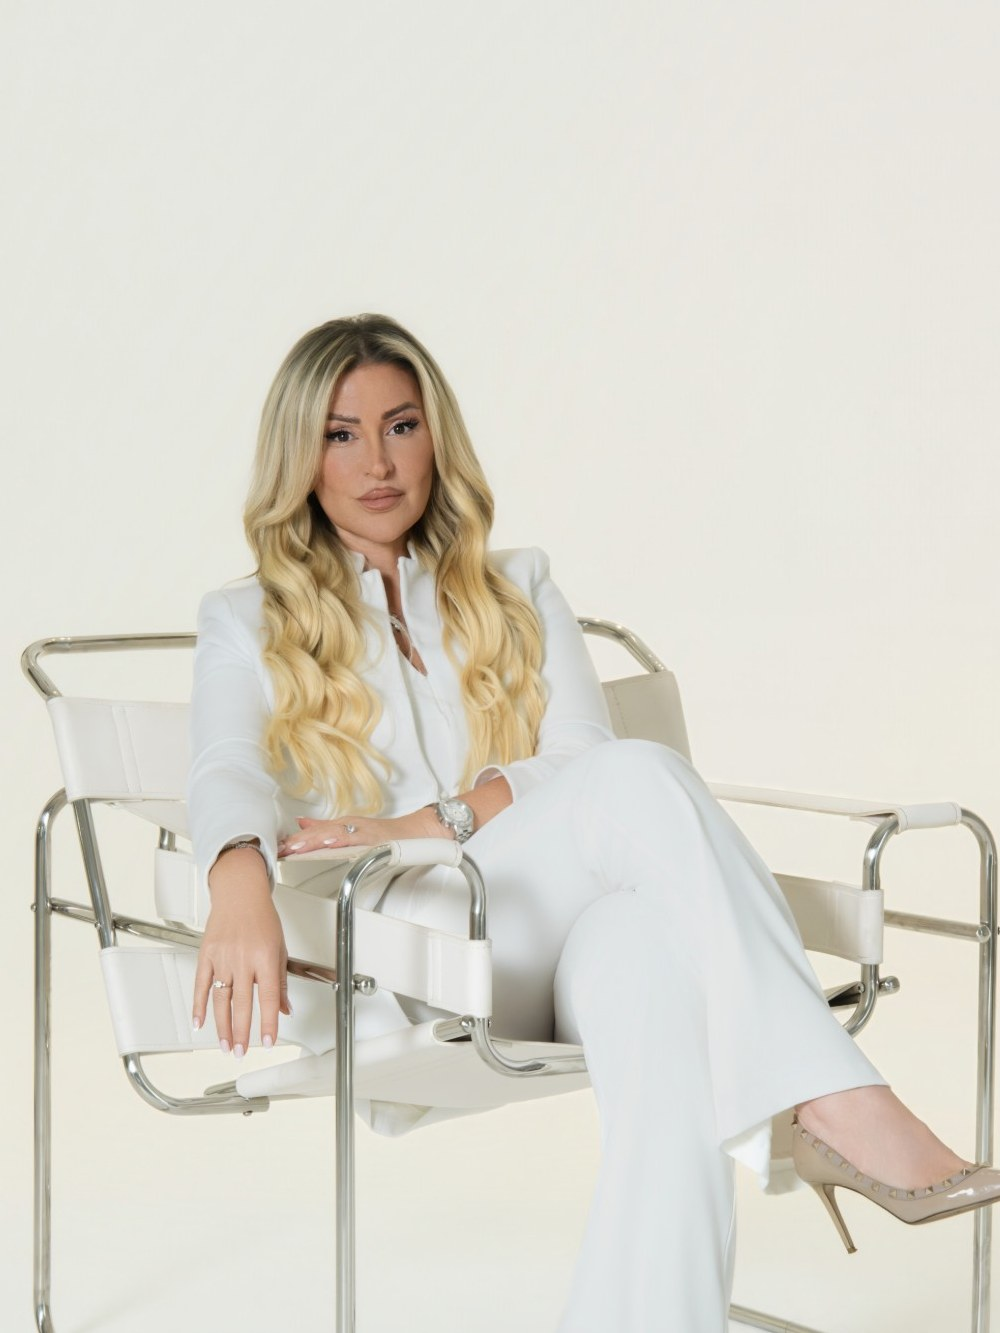
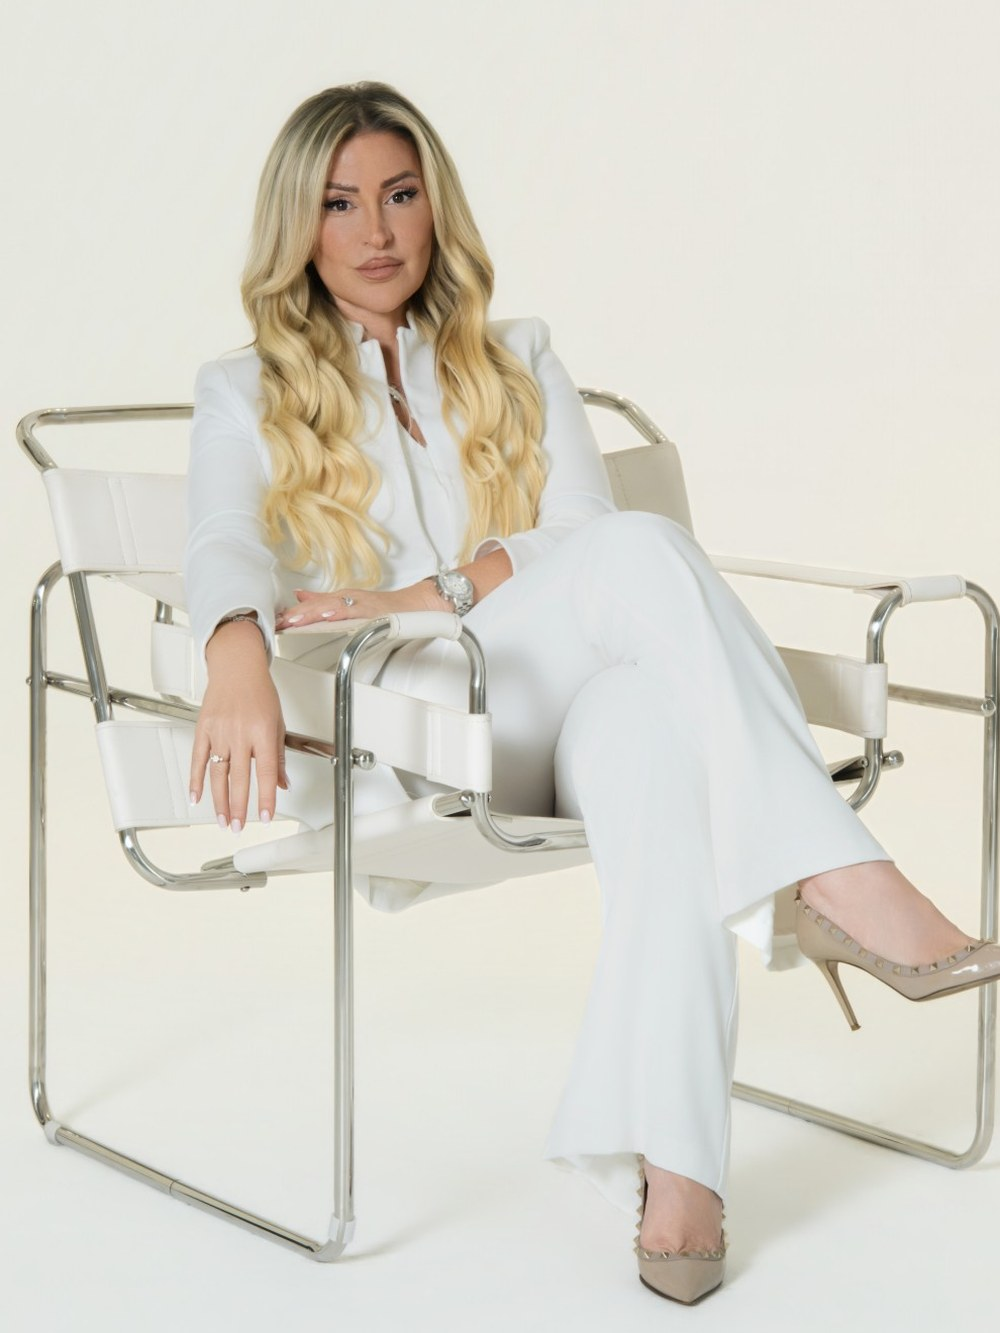
Add 4 press articles; raise Jinane's portrait to match Joelle's framing
Populate press-data.js with Zahrat Al Khaleej, two Gulf Magazine features and a
Sayidaty feature. Re-crop Jinane's portrait (fuller figure, head near the top) so
she sits at the same level as Joelle in the founder cards.

Claude-Session: https://claude.ai/code/session_01MA6AARB7kgMtULQSmpxjmu

diff --git a/ui_kits/website/press-data.js b/ui_kits/website/press-data.js
@@ -6,24 +6,42 @@
      type:    'article' | 'news',   // 'article' = external coverage to reshare;
                                      // 'news'    = the studio's own announcement
      title:   'Headline text',
-     outlet:  'Publication name',    // for articles (e.g. "Architectural Digest ME")
+     outlet:  'Publication name',    // for articles (e.g. "Gulf Magazine")
      date:    '2024-09',             // 'YYYY', 'YYYY-MM' or 'YYYY-MM-DD' — used to sort (newest first)
      url:     'https://…',           // link opened in a new tab (articles / source)
      image:   '../../assets/press/<file>.jpg',  // OPTIONAL thumbnail (put files in assets/press/)
      excerpt: 'One or two lines of summary.'     // OPTIONAL
    }
 
-   To add coverage: append an object below. Newest items show first automatically. */
+   To add coverage: append an object below. Newest items show first automatically
+   (add a `date` to control the order; items without a date keep the order below). */
 window.JWT_PRESS = [
-  /* Example (delete or replace):
   {
     type: 'article',
-    title: 'How two sisters are shaping calm, tailor-made interiors',
-    outlet: 'Architectural Digest Middle East',
-    date: '2024-09',
-    url: 'https://example.com/jwt-feature',
-    image: '',
-    excerpt: 'A feature on JWT Design Studio’s end-to-end approach across the UAE, Lebanon and Syria.'
+    title: 'Jinane & Joelle Touma: “Together, we are better”',
+    outlet: 'Zahrat Al Khaleej',
+    date: '',
+    url: 'https://www.zahratalkhaleej.ae/article/4290594/جنان-وجويل-توما--نحن-معا-أفضل',
   },
-  */
+  {
+    type: 'article',
+    title: 'Jinan Touma is creating spaces with identity',
+    outlet: 'Gulf Magazine',
+    date: '',
+    url: 'https://gulfmagazine.co/jinan-touma-is-creating-spaces-with-identity/',
+  },
+  {
+    type: 'article',
+    title: 'Joelle Touma is building a bold new vision',
+    outlet: 'Gulf Magazine',
+    date: '',
+    url: 'https://gulfmagazine.co/joelle-touma-is-building-a-bold-new-vision-for/',
+  },
+  {
+    type: 'article',
+    title: 'JWT Design Studio, featured in Sayidaty',
+    outlet: 'Sayidaty Magazine',
+    date: '',
+    url: 'https://magazine.sayidaty.net/books/dqqx/#p=84',
+  },
 ];

diff --git a/ui_kits/website/data.js b/ui_kits/website/data.js
@@ -213,7 +213,7 @@
     team: [
       /* The studio is the two sisters — no wider team. Portraits supplied by the
          studio; paths are relative to ui_kits/website/. */
-      { name: 'Jinane Touma', role: 'Co-Founder', studio: 'JWT Design Studio', img: '../../assets/team/jinane.jpg?v=3' },
+      { name: 'Jinane Touma', role: 'Co-Founder', studio: 'JWT Design Studio', img: '../../assets/team/jinane.jpg?v=4' },
       { name: 'Joelle Touma', role: 'Co-Founder · Interior Architect', studio: 'JWT Design Studio', img: '../../assets/team/joelle.jpg?v=3' },
     ],
 

diff --git a/ui_kits/website/index.html b/ui_kits/website/index.html
@@ -26,8 +26,8 @@
 <script src="../../_ds_bundle.js?v=4"></script>
 <script src="projects-data.js?v=3"></script>
 <script src="review-overrides.js?v=2"></script>
-<script src="press-data.js?v=1"></script>
-<script src="data.js?v=15"></script>
+<script src="press-data.js?v=2"></script>
+<script src="data.js?v=16"></script>
 <script type="text/babel" src="kit-ui.jsx?v=3"></script>
 <script type="text/babel" src="HomePage.jsx?v=9"></script>
 <script type="text/babel" src="AboutPage.jsx?v=6"></script>
